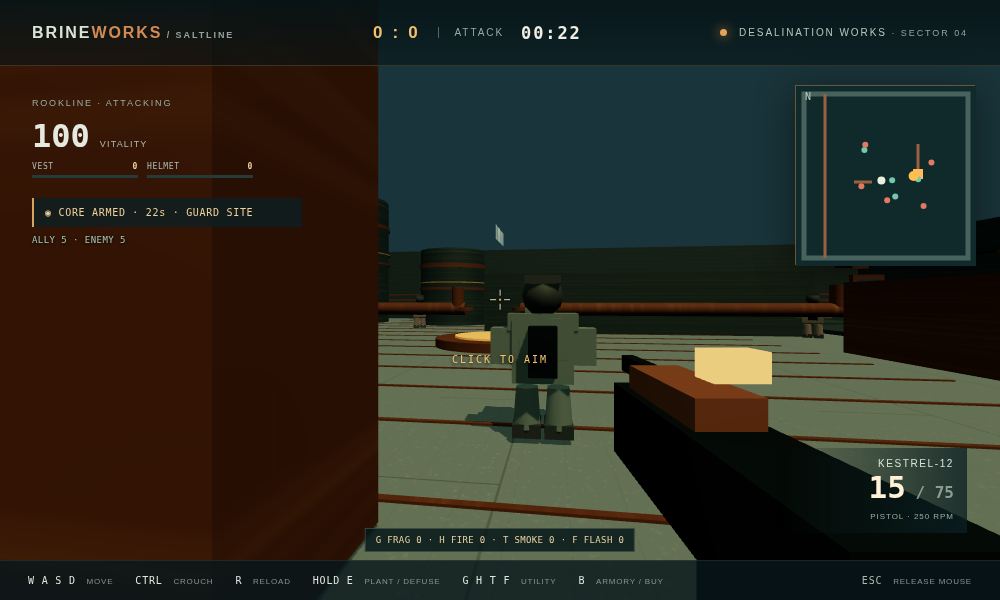
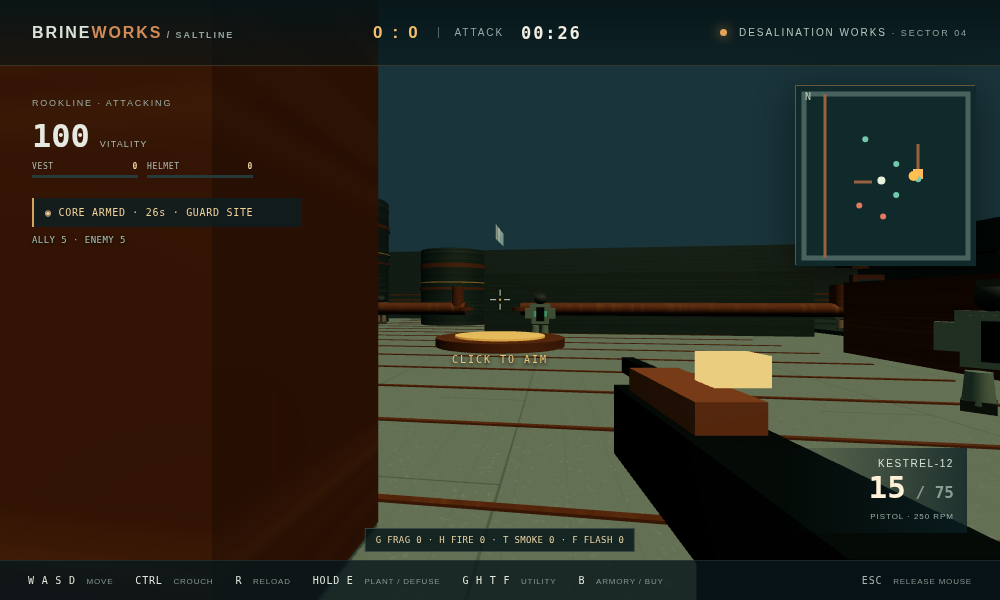
Hide occluded enemies on tactical minimap

diff --git a/game/src/ui.js b/game/src/ui.js
@@ -1,3 +1,4 @@
+import {shouldShowMinimapBot} from './simulation.js';
 import {state,buy,buyVest,buyHelmet,buyUtility,utilityCatalog,roleForRound} from './simulation.js';
 import {arsenal,categories,spreadForShot,recoilAngle} from './weapons.js';
 
@@ -16,4 +17,4 @@ arsenal.forEach((w,i)=>{const d=document.createElement('button');d.className='ca
 function updateArmory(){$('buy-vest').disabled=state.phase!=='buy'||state.vestBought||state.credits<650;$('buy-helmet').disabled=state.phase!=='buy'||state.helmetBought||state.credits<350;$('buy-vest').querySelector('.durability').textContent=`VEST EQUIPPED: ${state.vest}`;$('buy-helmet').querySelector('.durability').textContent=`HELMET EQUIPPED: ${state.helmet}`;$('buy-vest').setAttribute('aria-label',`Buy tactical vest for 650 credits; ${state.vest} durability equipped`);$('buy-helmet').setAttribute('aria-label',`Buy helmet for 350 credits; ${state.helmet} durability equipped`);for(const button of $('utility-buy').children){const type=button.dataset.utility,item=utilityCatalog[type],slots=Object.values(state.utilities).reduce((a,b)=>a+b,0);button.disabled=state.phase!=='buy'||state.utilities[type]>0||slots>=2||state.credits<item.cost;button.querySelector('.utility-status').textContent=state.utilities[type]?'PURCHASED':slots>=2?'2 ITEM LIMIT':state.credits<item.cost?'INSUFFICIENT CREDITS':'AVAILABLE';}cardNodes.forEach((d,i)=>{const w=arsenal[i],current=state.weapon.id===i;d.classList.toggle('current',current);d.disabled=state.phase!=='buy'||(!current&&state.credits<w.cost);d.querySelector('.cost').textContent=w.cost===0?'ISSUED / FREE':`◈ ${w.cost.toLocaleString()}`;d.querySelector('.selection').textContent=current?'EQUIPPED':state.credits<w.cost?'INSUFFICIENT CREDITS':'1—5 · BUY / EQUIP';});}
 let buyOpen=state.phase==='buy',previousPhase=state.phase;
 export function toggleArmory(){if(state.phase!=='buy')return false;buyOpen=!buyOpen;return true;}
-export function renderUI(){const live=state.phase==='live',attack=state.player.team===(state.round<=5?'Rookline':'Sumpguard'),side=state.player.team;if(state.phase!==previousPhase){if(state.phase==='buy')buyOpen=true;previousPhase=state.phase;}$('role').textContent=`${side.toUpperCase()} · ${roleForRound(side,state.round)}`;$('score').textContent=`${state.score.Rookline} : ${state.score.Sumpguard}`;$('phase').textContent=state.phase==='buy'?'BUY WINDOW':live?(attack?'ATTACK':'DEFEND'):'ROUND COMPLETE';$('timer').textContent=`${String(Math.max(0,Math.ceil(state.phase==='live'&&state.core?state.core.timer:state.clock)/60|0)).padStart(2,'0')}:${String(Math.max(0,Math.ceil(state.phase==='live'&&state.core?state.core.timer:state.clock)%60)).padStart(2,'0')}`;$('health').textContent=Math.max(0,state.health);$('vest-value').textContent=state.vest;$('helmet-value').textContent=state.helmet;const vest=Math.max(0,Math.min(100,state.vest)),helmet=Math.max(0,Math.min(100,state.helmet));$('vest-bar').setAttribute('aria-valuenow',String(vest));$('vest-fill').style.width=`${vest}%`;$('helmet-bar').setAttribute('aria-valuenow',String(helmet));$('helmet-fill').style.width=`${helmet}%`;$('utility-hud').textContent=`G FRAG ${state.utilities.frag}  ·  H FIRE ${state.utilities.molotov}  ·  T SMOKE ${state.utilities.smoke}  ·  F FLASH ${state.utilities.flash}`;$('utility-hud').hidden=state.phase!=='live';$('flash-overlay').style.opacity=state.playerFlash>0?String(Math.min(.92,state.playerFlash/.2*.92)):'0';document.body.classList.toggle('under-fire',state.incomingHit>0);$('incoming-cue').textContent=state.incomingHit>0?state.incomingFeedback:'';$('hit-confirm').textContent=state.hitConfirmation?`${state.hitConfirmation.head?'HEAD':'BODY'} −${state.hitConfirmation.damage}`:'';$('hit-confirm').classList.toggle('active',!!state.hitConfirmation);$('crosshair').classList.toggle('hit',!!state.hitConfirmation);let ally=state.health>0?1:0,enemy=0;for(const b of state.bots)if(b.alive){if(b.team===side)ally++;else enemy++;}$('tactical').textContent=`ALLY ${ally}  ·  ENEMY ${enemy}`;if(state.planting>0)$('tactical').textContent+=`  ·  PLANT ${Math.max(0,2.5-state.planting).toFixed(1)}/2.5s`;else if(state.defusing>0)$('tactical').textContent+=`  ·  DEFUSE ${Math.max(0,4-state.defusing).toFixed(1)}/4.0s`;else if(state.botObjective.id!==null)$('tactical').textContent+=`  ·  BOT ${state.core?.planted?'DEFUSE':'PLANT'} ${Math.min(state.core?.planted?4:2.5,state.botObjective.progress).toFixed(1)}s`;$('weapon').textContent=state.weapon.name;$('weapon-kind').textContent=`${state.weapon.kind.toUpperCase()} · ${Math.round(60/state.weapon.interval)} RPM`;$('ammo').textContent=state.weapon.ammo;$('stock').textContent=state.weapon.stock;const speed=Math.hypot(state.player.vx,state.player.vz),spread=spreadForShot(state.weapon,{moving:speed>.5,crouched:state.player.crouch}),gap=Math.max(4,Math.min(34,4+spread*850)),recoilOffset=recoilAngle(state.weapon,state.recoil)*850;$('crosshair').style.setProperty('--reticle-gap',`${gap}px`);$('crosshair').style.setProperty('--reticle-rise',`${recoilOffset}px`);$('cash').textContent=state.credits.toLocaleString();$('buytime').textContent=Math.ceil(state.clock);$('buy').classList.toggle('hidden',state.phase!=='buy'||!buyOpen);$('result').classList.toggle('hidden',state.phase!=='result');$('resultline').textContent=state.roundWinner===side?'ROUND WON':'ROUND LOST';$('resulttitle').textContent=state.feed[0]?.split('—')[1]?.trim().toUpperCase()||'SALTLINE HELD';$('hint').textContent=document.pointerLockElement?'':state.phase==='buy'?'CLICK TO DEPLOY':'CLICK TO AIM';$('objective').textContent=state.core?.planted?`◉ CORE ARMED · ${Math.ceil(state.core.timer)}s · ${attack?'GUARD SITE':'DEFUSE'}`:state.phase==='buy'?`◈ ${side.toUpperCase()} · ${attack?'ATTACKERS':'DEFENDERS'} · ARMORY OPEN`:attack?'◎ ATTACK · HOLD E WITHIN 4m OF THE SITE TO PLANT / ELIMINATE':'◎ DEFEND · DENY PLANT / DEFUSE CORE';$('feed').innerHTML=state.feed.map(t=>`<div>${t}</div>`).join('');updateArmory();const canvas=$('map'),c=canvas.getContext('2d');c.clearRect(0,0,180,180);c.fillStyle='#102a2c';c.fillRect(0,0,180,180);c.strokeStyle='#48625d';c.lineWidth=5;c.strokeRect(8,8,164,164);c.strokeStyle='#9a6042';c.lineWidth=3;c.beginPath();c.moveTo(29,8);c.lineTo(29,172);c.moveTo(122,58);c.lineTo(122,94);c.moveTo(58,96);c.lineTo(76,96);c.stroke();c.fillStyle='#ffbb5a';c.fillRect(117,83,10,10);const dot=(x,z,color,r)=>{c.fillStyle=color;c.beginPath();c.arc(90+x*2.3,90+z*2.3,r,0,Math.PI*2);c.fill();};dot(state.player.x,state.player.z,'#e9f0dc',4);for(const b of state.bots)if(b.alive)dot(b.x,b.z,b.team==='Sumpguard'?'#e27961':'#73c7ab',3);if(state.core?.planted)dot(state.core.x,state.core.z,'#ffc04e',5);}
+export function renderUI(visible){const live=state.phase==='live',attack=state.player.team===(state.round<=5?'Rookline':'Sumpguard'),side=state.player.team;if(state.phase!==previousPhase){if(state.phase==='buy')buyOpen=true;previousPhase=state.phase;}$('role').textContent=`${side.toUpperCase()} · ${roleForRound(side,state.round)}`;$('score').textContent=`${state.score.Rookline} : ${state.score.Sumpguard}`;$('phase').textContent=state.phase==='buy'?'BUY WINDOW':live?(attack?'ATTACK':'DEFEND'):'ROUND COMPLETE';$('timer').textContent=`${String(Math.max(0,Math.ceil(state.phase==='live'&&state.core?state.core.timer:state.clock)/60|0)).padStart(2,'0')}:${String(Math.max(0,Math.ceil(state.phase==='live'&&state.core?state.core.timer:state.clock)%60)).padStart(2,'0')}`;$('health').textContent=Math.max(0,state.health);$('vest-value').textContent=state.vest;$('helmet-value').textContent=state.helmet;const vest=Math.max(0,Math.min(100,state.vest)),helmet=Math.max(0,Math.min(100,state.helmet));$('vest-bar').setAttribute('aria-valuenow',String(vest));$('vest-fill').style.width=`${vest}%`;$('helmet-bar').setAttribute('aria-valuenow',String(helmet));$('helmet-fill').style.width=`${helmet}%`;$('utility-hud').textContent=`G FRAG ${state.utilities.frag}  ·  H FIRE ${state.utilities.molotov}  ·  T SMOKE ${state.utilities.smoke}  ·  F FLASH ${state.utilities.flash}`;$('utility-hud').hidden=state.phase!=='live';$('flash-overlay').style.opacity=state.playerFlash>0?String(Math.min(.92,state.playerFlash/.2*.92)):'0';document.body.classList.toggle('under-fire',state.incomingHit>0);$('incoming-cue').textContent=state.incomingHit>0?state.incomingFeedback:'';$('hit-confirm').textContent=state.hitConfirmation?`${state.hitConfirmation.head?'HEAD':'BODY'} −${state.hitConfirmation.damage}`:'';$('hit-confirm').classList.toggle('active',!!state.hitConfirmation);$('crosshair').classList.toggle('hit',!!state.hitConfirmation);let ally=state.health>0?1:0,enemy=0;for(const b of state.bots)if(b.alive){if(b.team===side)ally++;else enemy++;}$('tactical').textContent=`ALLY ${ally}  ·  ENEMY ${enemy}`;if(state.planting>0)$('tactical').textContent+=`  ·  PLANT ${Math.max(0,2.5-state.planting).toFixed(1)}/2.5s`;else if(state.defusing>0)$('tactical').textContent+=`  ·  DEFUSE ${Math.max(0,4-state.defusing).toFixed(1)}/4.0s`;else if(state.botObjective.id!==null)$('tactical').textContent+=`  ·  BOT ${state.core?.planted?'DEFUSE':'PLANT'} ${Math.min(state.core?.planted?4:2.5,state.botObjective.progress).toFixed(1)}s`;$('weapon').textContent=state.weapon.name;$('weapon-kind').textContent=`${state.weapon.kind.toUpperCase()} · ${Math.round(60/state.weapon.interval)} RPM`;$('ammo').textContent=state.weapon.ammo;$('stock').textContent=state.weapon.stock;const speed=Math.hypot(state.player.vx,state.player.vz),spread=spreadForShot(state.weapon,{moving:speed>.5,crouched:state.player.crouch}),gap=Math.max(4,Math.min(34,4+spread*850)),recoilOffset=recoilAngle(state.weapon,state.recoil)*850;$('crosshair').style.setProperty('--reticle-gap',`${gap}px`);$('crosshair').style.setProperty('--reticle-rise',`${recoilOffset}px`);$('cash').textContent=state.credits.toLocaleString();$('buytime').textContent=Math.ceil(state.clock);$('buy').classList.toggle('hidden',state.phase!=='buy'||!buyOpen);$('result').classList.toggle('hidden',state.phase!=='result');$('resultline').textContent=state.roundWinner===side?'ROUND WON':'ROUND LOST';$('resulttitle').textContent=state.feed[0]?.split('—')[1]?.trim().toUpperCase()||'SALTLINE HELD';$('hint').textContent=document.pointerLockElement?'':state.phase==='buy'?'CLICK TO DEPLOY':'CLICK TO AIM';$('objective').textContent=state.core?.planted?`◉ CORE ARMED · ${Math.ceil(state.core.timer)}s · ${attack?'GUARD SITE':'DEFUSE'}`:state.phase==='buy'?`◈ ${side.toUpperCase()} · ${attack?'ATTACKERS':'DEFENDERS'} · ARMORY OPEN`:attack?'◎ ATTACK · HOLD E WITHIN 4m OF THE SITE TO PLANT / ELIMINATE':'◎ DEFEND · DENY PLANT / DEFUSE CORE';$('feed').innerHTML=state.feed.map(t=>`<div>${t}</div>`).join('');updateArmory();const canvas=$('map'),c=canvas.getContext('2d');c.clearRect(0,0,180,180);c.fillStyle='#102a2c';c.fillRect(0,0,180,180);c.strokeStyle='#48625d';c.lineWidth=5;c.strokeRect(8,8,164,164);c.strokeStyle='#9a6042';c.lineWidth=3;c.beginPath();c.moveTo(29,8);c.lineTo(29,172);c.moveTo(122,58);c.lineTo(122,94);c.moveTo(58,96);c.lineTo(76,96);c.stroke();c.fillStyle='#ffbb5a';c.fillRect(117,83,10,10);const dot=(x,z,color,r)=>{c.fillStyle=color;c.beginPath();c.arc(90+x*2.3,90+z*2.3,r,0,Math.PI*2);c.fill();};dot(state.player.x,state.player.z,'#e9f0dc',4);for(const b of state.bots)if(shouldShowMinimapBot(b,state.player,visible))dot(b.x,b.z,b.team==='Sumpguard'?'#e27961':'#73c7ab',3);if(state.core?.planted)dot(state.core.x,state.core.z,'#ffc04e',5);}

diff --git a/game/src/main.js b/game/src/main.js
@@ -24,4 +24,4 @@ function syncZoneVisuals(zones,map,kind){const active=new Set();for(const zone o
 const shot=new URLSearchParams(location.search).get('shot');if(shot==='3'){seedArmoryPreview();}else{startRound(shot==='2'?'plant':'');if(shot==='1'){state.player.x=-3;state.player.z=-3;state.clock=57;state.score={Rookline:3,Sumpguard:2};state.health=74;}if(shot==='2'&&state.core)state.player.yaw=Math.atan2(state.player.x-state.core.x,state.player.z-state.core.z);}
 function frame(now){const elapsed=Math.min(.1,(now-last)/1000);last=now;accumulator+=elapsed;while(accumulator>=step){liveStep(step,ctx);accumulator-=step;}const p=state.player;camera.position.set(p.x,p.crouch?1.15:1.65,p.z);camera.rotation.order='YXZ';camera.rotation.y=p.yaw;camera.rotation.x=p.pitch;const t=now*.001;gun.position.y=-Math.abs(p.vx+p.vz)*.005+Math.sin(t*8)*.004;gun.rotation.z=-p.vx*.007;gun.rotation.x=-state.recoil*.035;if(shotFlash>0){shotFlash-=elapsed;muzzle.visible=true;muzzleLight.intensity=2.2;}else{muzzle.visible=false;muzzleLight.intensity=0;}
  for(const b of state.bots){let obj=botMeshes.get(b.id);if(!obj)obj={g:makeBot(b)};obj.g.visible=b.alive;obj.g.position.set(b.x,0,b.z);obj.g.rotation.y=Math.atan2(p.x-b.x,p.z-b.z);}
- if(state.grenade){const colors={frag:'#aab06a',molotov:'#f07636',smoke:'#92a2a4',flash:'#eadfa9'};if(!projectileMesh||projectileType!==state.grenade.type){if(projectileMesh){scene.remove(projectileMesh);projectileMesh.geometry.dispose();projectileMesh.material.dispose();}projectileType=state.grenade.type;projectileMesh=new THREE.Mesh(new THREE.SphereGeometry(.2,12,8),new THREE.MeshStandardMaterial({color:colors[projectileType]||'#aab06a',emissive:colors[projectileType]||'#514a31',emissiveIntensity:.35}));scene.add(projectileMesh);}projectileMesh.position.set(state.grenade.x,state.grenade.y,state.grenade.z);}else if(projectileMesh){scene.remove(projectileMesh);projectileMesh.geometry.dispose();projectileMesh.material.dispose();projectileMesh=null;projectileType=null;}syncZoneVisuals(state.fireZones,zoneVisuals.fire,'fire');syncZoneVisuals(state.smokeZones,zoneVisuals.smoke,'smoke');renderUI();renderer.render(scene,camera);requestAnimationFrame(frame);}requestAnimationFrame(frame);
+ if(state.grenade){const colors={frag:'#aab06a',molotov:'#f07636',smoke:'#92a2a4',flash:'#eadfa9'};if(!projectileMesh||projectileType!==state.grenade.type){if(projectileMesh){scene.remove(projectileMesh);projectileMesh.geometry.dispose();projectileMesh.material.dispose();}projectileType=state.grenade.type;projectileMesh=new THREE.Mesh(new THREE.SphereGeometry(.2,12,8),new THREE.MeshStandardMaterial({color:colors[projectileType]||'#aab06a',emissive:colors[projectileType]||'#514a31',emissiveIntensity:.35}));scene.add(projectileMesh);}projectileMesh.position.set(state.grenade.x,state.grenade.y,state.grenade.z);}else if(projectileMesh){scene.remove(projectileMesh);projectileMesh.geometry.dispose();projectileMesh.material.dispose();projectileMesh=null;projectileType=null;}syncZoneVisuals(state.fireZones,zoneVisuals.fire,'fire');syncZoneVisuals(state.smokeZones,zoneVisuals.smoke,'smoke');renderUI(ctx.visible);renderer.render(scene,camera);requestAnimationFrame(frame);}requestAnimationFrame(frame);

diff --git a/game/src/simulation.js b/game/src/simulation.js
@@ -24,6 +24,7 @@ export function finishRound(winner,reason){if(state.phase!=='live')return false;
 export function receiveBotHit(damage,{head=false,kind='Pistol'}={}){let vestAbsorbed=0,helmetAbsorbed=0;if(head){if(['Pistol','SMG','LMG'].includes(kind)){helmetAbsorbed=Math.min(state.helmet,damage*.5);state.helmet-=helmetAbsorbed;}}else{vestAbsorbed=Math.min(state.vest,damage*.5);state.vest-=vestAbsorbed;}const healthDamage=damage-vestAbsorbed-helmetAbsorbed;state.health-=healthDamage;state.incomingHit=.32;state.incomingFeedback=`${vestAbsorbed?`VEST −${Math.round(vestAbsorbed)}  `:''}${helmetAbsorbed?`HELM −${Math.round(helmetAbsorbed)}  `:''}HP −${Math.round(healthDamage)}`;return healthDamage;}
 export function grenadeDamage(bot,g,visible=()=>true){if(!bot.alive||bot.team===state.player.team)return 0;const d=Math.hypot(bot.x-g.x,bot.z-g.z);if(d>=7||!visible(g.x,g.z,bot.x,bot.z))return 0;return Math.round(75*(1-d/7));}
 export function visibleWithSmoke(ax,az,bx,bz,baseVisible=()=>true){if(!baseVisible(ax,az,bx,bz))return false;for(const cloud of state.smokeZones){const dx=bx-ax,dz=bz-az,l2=dx*dx+dz*dz,t=l2?Math.max(0,Math.min(1,((cloud.x-ax)*dx+(cloud.z-az)*dz)/l2)):0;if(Math.hypot(ax+t*dx-cloud.x,az+t*dz-cloud.z)<cloud.radius)return false;}return true;}
+export function shouldShowMinimapBot(bot,player,visible){if(!bot.alive)return false;if(bot.team===player.team)return true;return typeof visible==='function'&&visible(player.x,player.z,bot.x,bot.z);}
 export function chooseTarget(bot,bots,player,visible=()=>true){const candidates=bots.filter(o=>o.alive&&o.team!==bot.team),playerAlive=player===state.player?state.health>0:player.health===undefined||player.health>0;if(player.team!==bot.team&&playerAlive)candidates.push(player);return candidates.filter(o=>visible(bot.x,bot.z,o.x,o.z)).sort((a,b)=>Math.hypot(a.x-bot.x,a.z-b.z)-Math.hypot(b.x-bot.x,b.z-b.z))[0]||null;}
 export function canPlant(){return state.phase==='live'&&state.player.team===attackerTeamForRound(state.round)&&!state.core&&Math.hypot(state.player.x-SITE.x,state.player.z-SITE.z)<4;}
 export function canDefuse(){return state.phase==='live'&&state.player.team!==attackerTeamForRound(state.round)&&!!state.core?.planted&&Math.hypot(state.player.x-state.core.x,state.player.z-state.core.z)<4;}

diff --git a/README.md b/README.md
@@ -6,9 +6,11 @@
 
 An original offline, round-based tactical FPS with bots, objective play, and weapon loadouts.
 
-**Next candidate: v2.1.1**
+**Next candidate: v2.1.2**
 
 ## Changelog
+
+- **v2.1.2** — Minimap enemy contacts are shown only while currently visible through the shared cover- and smoke-aware visibility callback; allies, player, and core markers remain unchanged.
 
 - **v1.0.0** — Initial offline tactical FPS build with one compact arena, bot opponents, weapon purchases, and a site objective.
 - **v2.0.0** — Procedural harbor materials and set dressing; five original weapon classes with distinct stats and a persistent round economy; halftime team-role swap, objective-capable AI, and polished combat feedback. Firearm and grenade eliminations share exact 300-credit rewards and clear kill-feed causes. Buyable tactical vest (650 credits, 100 durability, 50% body reduction) and helmet (350 credits, 100 durability, 50% Pistol/SMG/LMG headshot reduction) add round-based protection; AR and Sniper headshots remain lethal. Four round-limited utilities—Frag (350), Incendiary (450), Smoke (300), and Flashbang (250)—add deterministic damage, fire, concealment, and blinding effects, with two total slots and dedicated hotkeys. The armory is responsive and readable, armor purchases are limited to once each per round, and the live-state no-op was removed.
